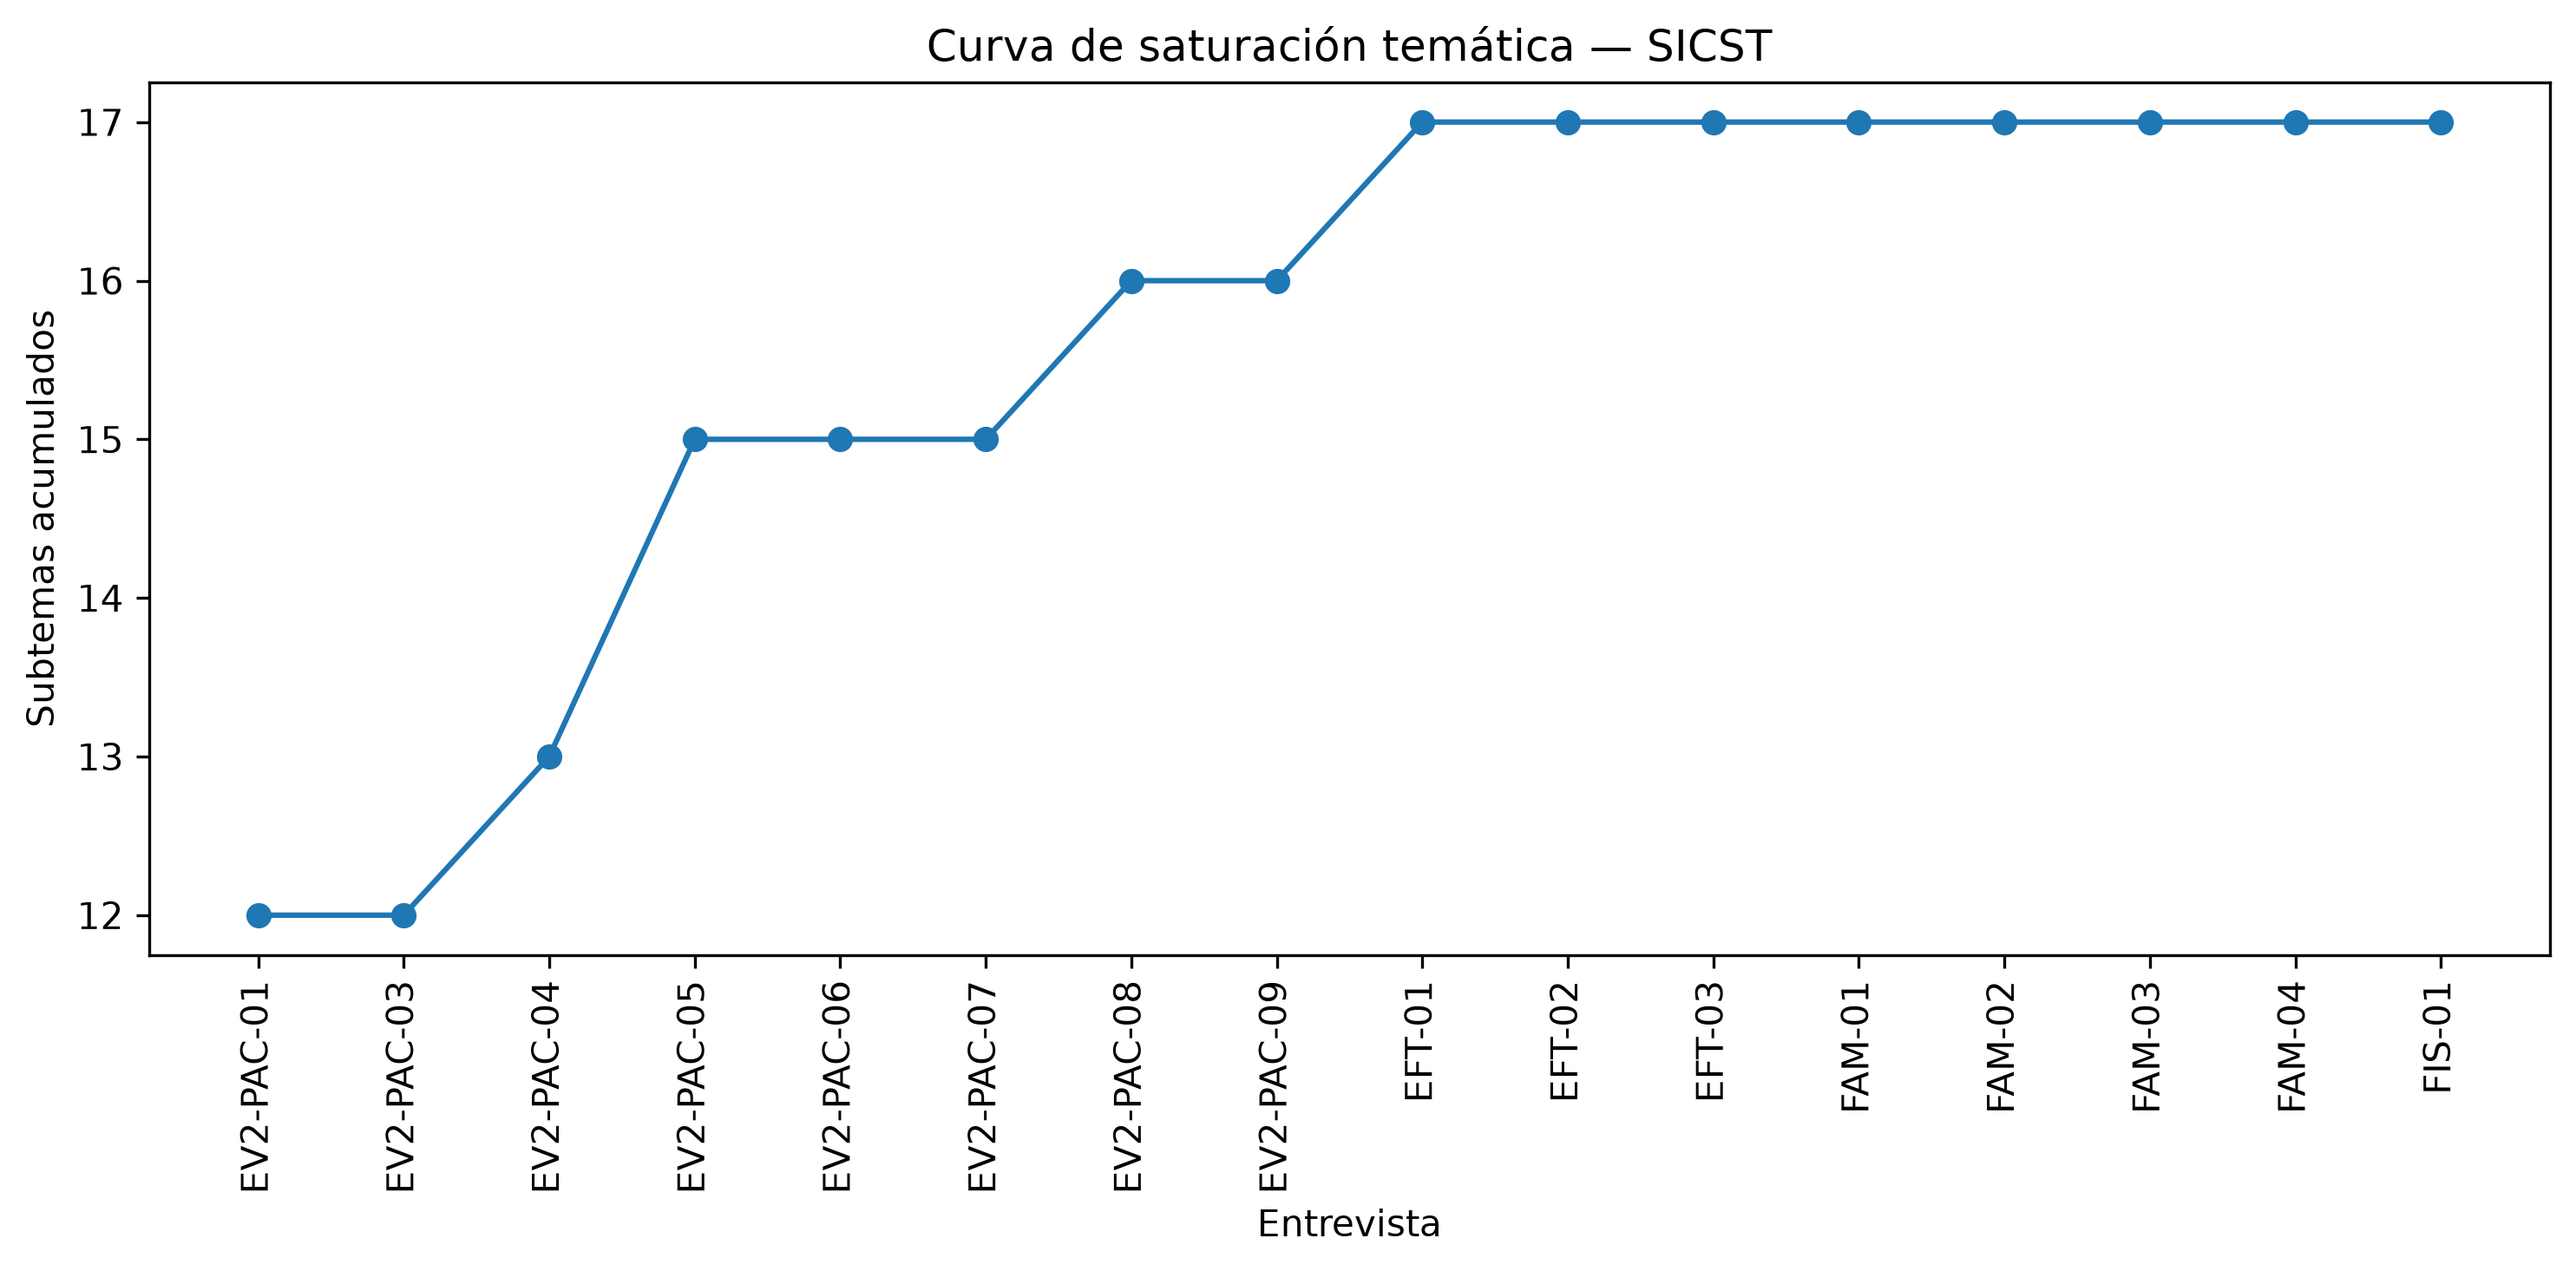
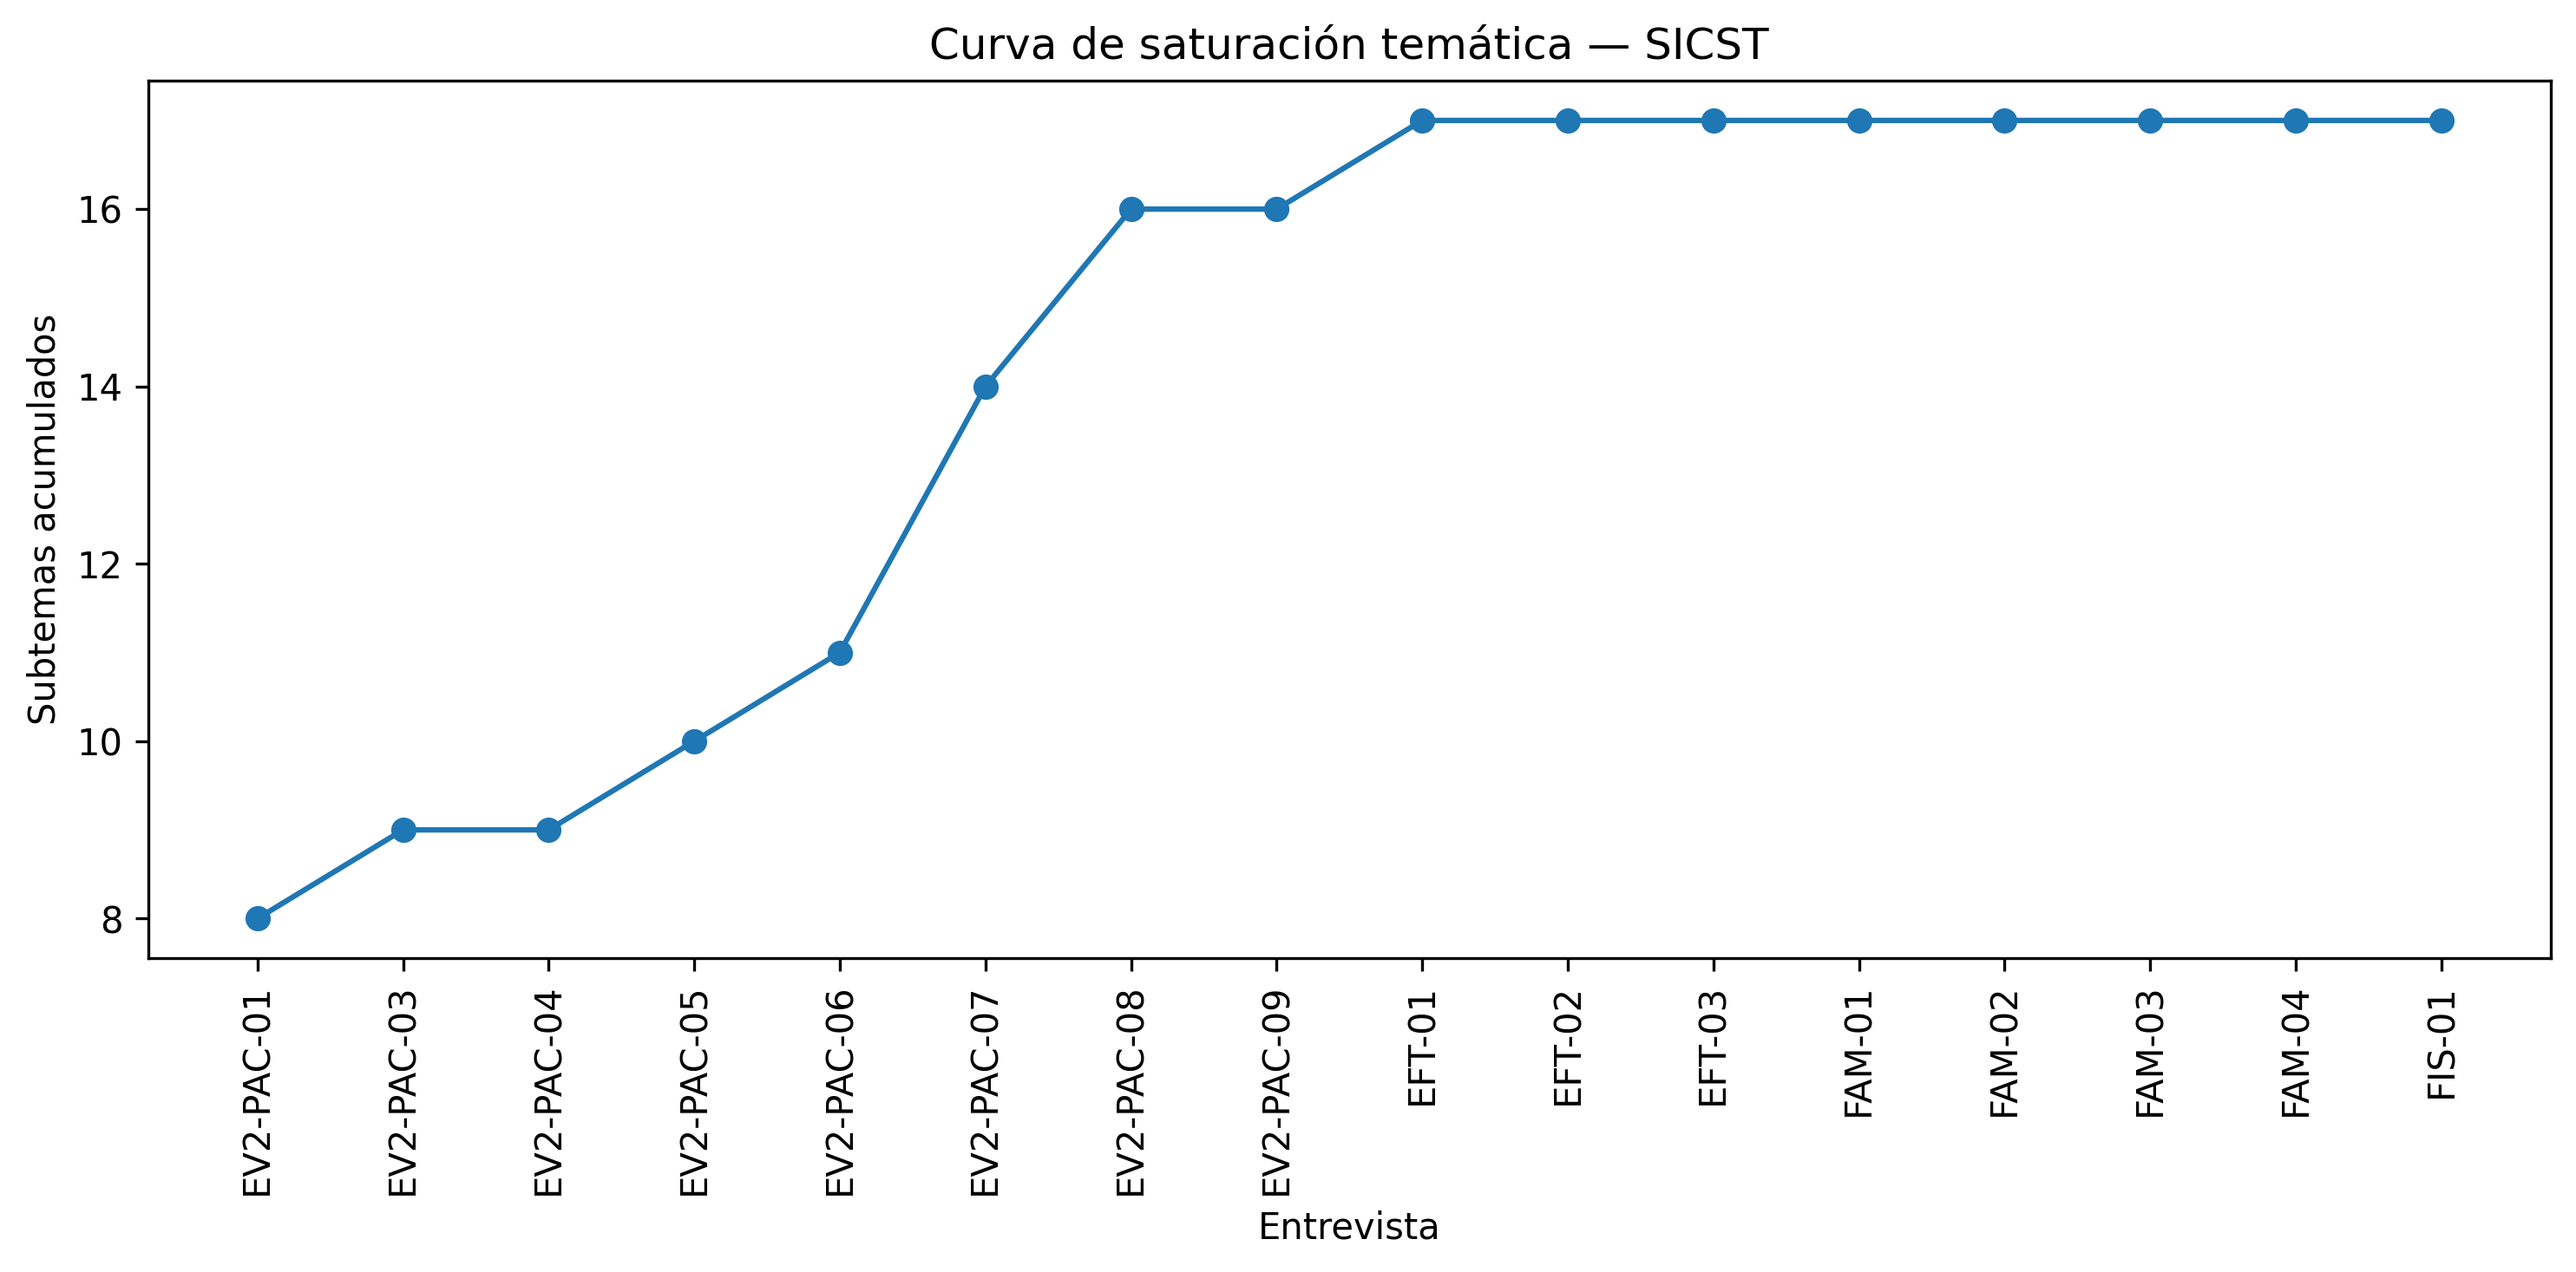
Verificar codificacion con citas literales para C1

diff --git a/02_Evidencias/Codificacion_Tematica/verificacion_C1.md b/02_Evidencias/Codificacion_Tematica/verificacion_C1.md
@@ -1,0 +1,48 @@
+# Verificación literal de la codificación — C1
+
+## Alcance
+
+Se revisó la matriz vigente `matriz_codificacion_SICST.csv` frente a las transcripciones disponibles y las definiciones de `libro_codigos.csv`.
+
+Criterio aplicado:
+
+- una asignación `1` se conserva únicamente cuando existe una cita literal suficiente que respalda la definición vigente del subtema;
+- una asignación sin respaldo literal suficiente se cambia a `0`;
+- una asignación previamente en `0` puede cambiar a `1` cuando se identifica evidencia literal suficiente;
+- no se crean respuestas, participantes ni citas.
+
+## Resultado
+
+- Filas de la matriz verificadas: **18**
+- Subtemas disponibles: **17**
+- Asignaciones positivas finales con cita: **203**
+- Asignaciones `1 → 0` retiradas por falta de cita suficiente: **65**
+- Asignaciones `0 → 1` incorporadas por evidencia literal suficiente: **8**
+- Citas consolidadas: **203**
+
+Las citas verificables se encuentran en:
+
+`citas_codificacion.csv`
+
+El detalle de todos los cambios se encuentra en:
+
+`cambios_codificacion_C1.csv`
+
+## Sincronización de saturación
+
+Como la matriz cambió durante C1, se regeneraron también:
+
+- `saturacion_actualizada.csv`
+- `curva_saturacion_SICST.png`
+
+Se mantuvo el orden cronológico documentado de las 16 entrevistas del corpus principal y se excluyeron las filas `WALK` del cálculo, igual que en el script versionado.
+
+El resultado final acumula **17 subtemas**.
+
+## Nota sobre WALK
+
+`WALK-NTEC-01` y `WALK-TEC-01` permanecen en la matriz como evidencia complementaria, pero no forman parte del cálculo de saturación del corpus principal.
+
+## Nota de integridad
+
+Esta revisión valida respaldo textual dentro de las transcripciones disponibles. No sustituye la verificación auditiva pendiente de B1/B3 ni convierte una transcripción no cotejada palabra por palabra con su audio en evidencia auditiva verificada.
